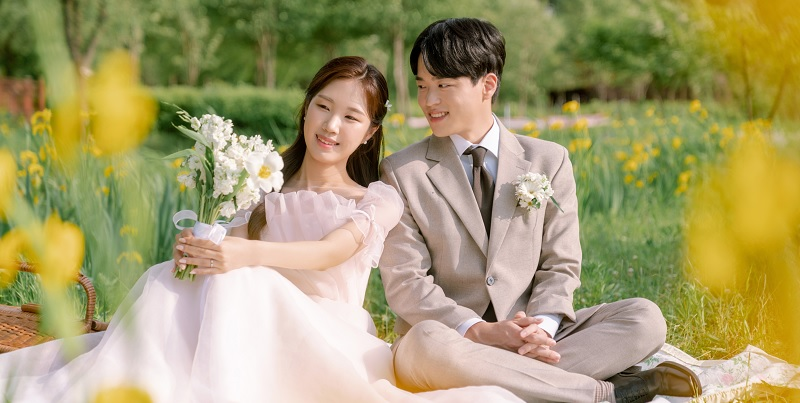
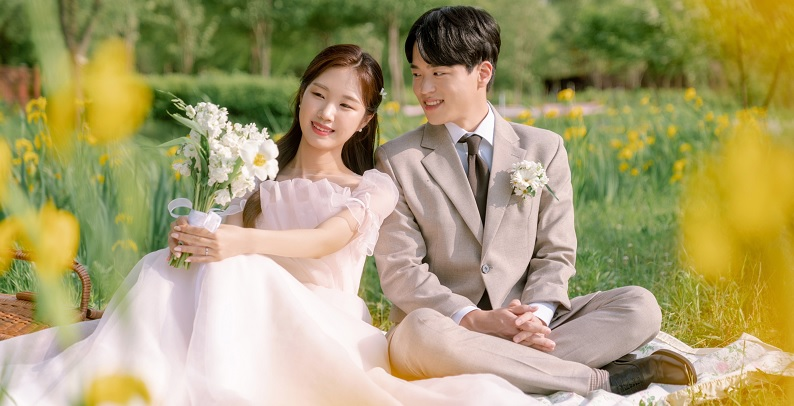
openGraph, kakao공유 image 변경

diff --git a/src/App.jsx b/src/App.jsx
@@ -46,7 +46,7 @@ export const shareKakao = () => {
       content: {
         title: '김지환 ♥ 최유정의 결혼식에 초대합니다.',
         description: '23.09.09 PM 2:30 · 엘리에나호텔',
-        imageUrl: 'https://i.postimg.cc/sgr0RtYW/6.jpg',
+        imageUrl: 'https://i.postimg.cc/6Wr3MfXf/kakaoshare.jpg',
         link: {
           mobileWebUrl: process.env.REACT_APP_MAIN_LINK,
           webUrl: process.env.REACT_APP_MAIN_LINK,
